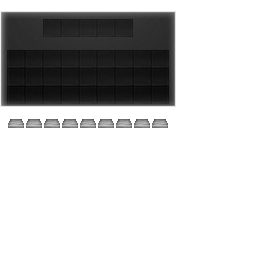
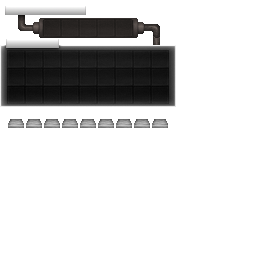
0.4.4 (1.5.2)
Изменён ui: воронка
Новый блок: блок кварца, резной кварц, кварцевая колонна

Changed region(s): [[0.0, 0.0312, 0.6875, 0.2188]]

diff --git a/README.md b/README.md
@@ -1,14 +1,17 @@
 ## Info
 
 Texture Pack Blood Raw
-Please, read license.txt
+
+Please, read license.txt [CC BY-NC-SA 4.0]
 
 [Download Texture Pack](https://github.com/Woowz11/BloodRaw-Minecraft/releases)
 
 ## Creator
 
 Main Texture Pack Creator, Artist: Woowz11
+
 Chief Assistant: The Window Skerpka
+
 Alpha, Beta Testers: Cyberpaul Red, PavkaLakar, Klaver, Kemrouz
 
 ## Music Credits
@@ -18,16 +21,29 @@ Soon...
 ## Supported Versions
 
 Soon [1.5.2]
+
 [1.4.2]
+
 [1.3.1]
+
 [1.2.1]
+
 [1.1]
+
 [1.0]
+
 [Beta 1.8]
+
 [Beta 1.7]
+
 [Beta 1.6]
+
 [Beta 1.5]
+
 [Beta 1.4]
+
 [Beta 1.3]
+
 [Beta 1.2]
+
 [Alpha 1.2.6]
